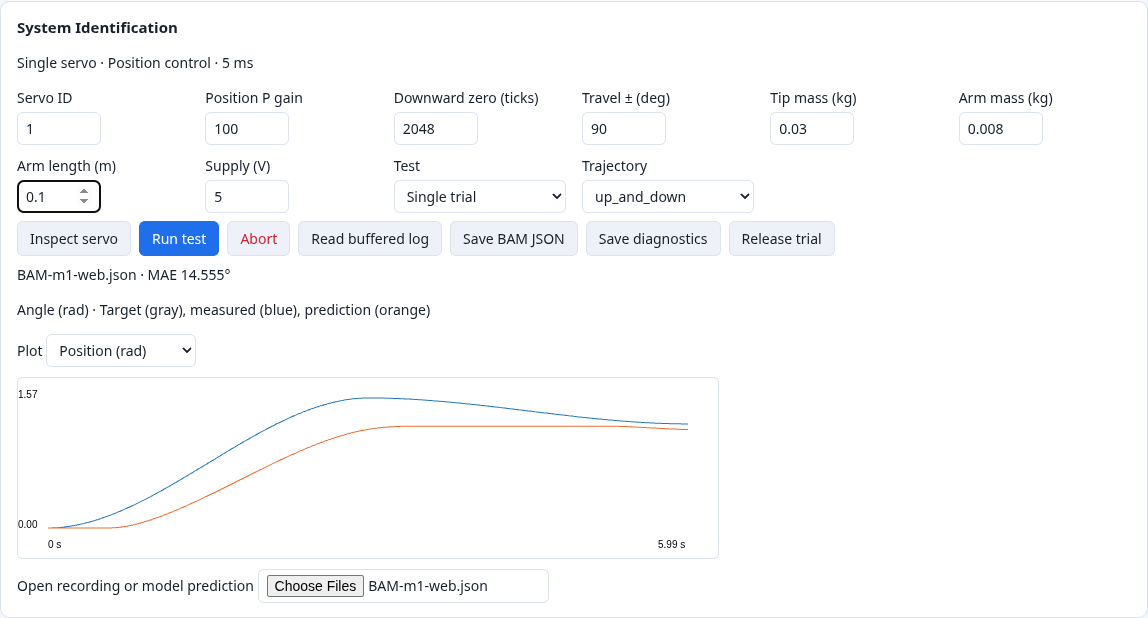
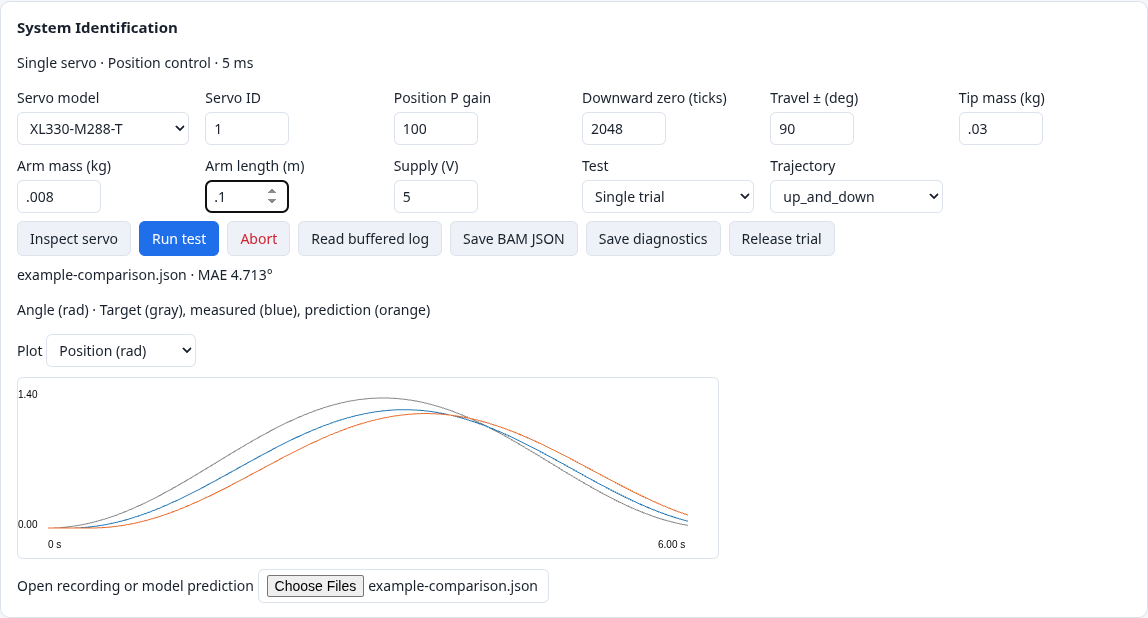
Select and verify the servo model in the identification panel

diff --git a/ServosAreGo.html b/ServosAreGo.html
@@ -212,6 +212,7 @@ details summary { cursor: pointer; color: var(--muted); font-size: 12px; }
     </div>
   </section>
 <section class="wide" id="identification"><h2>System Identification</h2><p>Single servo · Position control · 5 ms</p><div class="bench-fields">
+<label>Servo model <select id="benchModel"><option value="xl330">XL330-M288-T</option></select></label>
 <label>Servo ID <input required type="number" id="benchId" value="1" min="0" max="252" step="1" style="width:6em"></label>
 <label>Position P gain <input required type="number" id="benchGain" value="100" min="1" max="400" step="1" style="width:6em"></label>
 <label>Downward zero (ticks) <input required type="number" id="benchZero" value="2048" min="0" max="4095" step="1" style="width:6em"></label>
@@ -1048,6 +1049,14 @@ function plotBench(log) {
   ctx.fillText((min+span).toFixed(2),0,20); ctx.fillText(min.toFixed(2),0,150);
   ctx.fillText("0 s",30,170); ctx.fillText(entries.at(-1).timestamp.toFixed(2)+" s",640,170);
 }
+async function inspectBenchModel(id) {
+  const selected = $("benchModel").value;
+  const info = await benchCommand("inspect " + id);
+  if (info.model !== selected) {
+    throw Error("Servo ID " + id + ": selected " + selected + ", detected " + info.model);
+  }
+  return info;
+}
 let benchContext;
 async function recordBench(directory) {
   try {
@@ -1062,7 +1071,7 @@ async function recordBench(directory) {
     if (points.some(([q]) => Math.abs(q*radiansPerTick)>limit || zero+q<0 || zero+q>4095))
       throw Error("Trajectory exceeds bench travel");
     const meta={mass:number("benchMass"),"arm-mass":number("benchArm"),length:number("benchLength"),vin:number("benchVin"),kp,trajectory:name};
-    const capabilities=await benchCommand("inspect "+id);
+    const capabilities=await inspectBenchModel(id);
     const {model}=capabilities;
     if (model!=="xl330") throw Error("No BAM log converter registered for "+model);
     if (!capabilities.torqueSwitch && points.some(([,on])=>!on)) throw Error("Torque switching unavailable");
@@ -1115,7 +1124,7 @@ $("benchRecover").onclick=async()=>{
 };
 $("benchInspect").onclick=async()=>{
   try {
-    const info=await benchCommand("inspect "+$("benchId").valueAsNumber);
+    const info=await inspectBenchModel($("benchId").valueAsNumber);
     for (const option of $("benchTrajectory").options) {
       option.disabled=!info.torqueSwitch && benchTrajectories[option.value].some(([,on])=>!on);
     }
@@ -1127,7 +1136,7 @@ $("benchInspect").onclick=async()=>{
 $("benchStart").onclick=async()=>{
   if (benchBusy || benchRun) return;
   benchBusy=true; benchCancelled=false;
-  const controls=["benchTest","benchTrajectory","benchGain","benchId","benchZero","benchLimit","benchMass","benchArm","benchLength","benchVin"];
+  const controls=["benchModel","benchTest","benchTrajectory","benchGain","benchId","benchZero","benchLimit","benchMass","benchArm","benchLength","benchVin"];
   const originalName=$("benchTrajectory").value, originalGain=$("benchGain").value;
   controls.forEach(id=>$(id).disabled=true);
   try {

diff --git a/web/src/sysid.js b/web/src/sysid.js
@@ -54,6 +54,14 @@ function plotBench(log) {
   ctx.fillText((min+span).toFixed(2),0,20); ctx.fillText(min.toFixed(2),0,150);
   ctx.fillText("0 s",30,170); ctx.fillText(entries.at(-1).timestamp.toFixed(2)+" s",640,170);
 }
+async function inspectBenchModel(id) {
+  const selected = $("benchModel").value;
+  const info = await benchCommand("inspect " + id);
+  if (info.model !== selected) {
+    throw Error("Servo ID " + id + ": selected " + selected + ", detected " + info.model);
+  }
+  return info;
+}
 let benchContext;
 async function recordBench(directory) {
   try {
@@ -68,7 +76,7 @@ async function recordBench(directory) {
     if (points.some(([q]) => Math.abs(q*radiansPerTick)>limit || zero+q<0 || zero+q>4095))
       throw Error("Trajectory exceeds bench travel");
     const meta={mass:number("benchMass"),"arm-mass":number("benchArm"),length:number("benchLength"),vin:number("benchVin"),kp,trajectory:name};
-    const capabilities=await benchCommand("inspect "+id);
+    const capabilities=await inspectBenchModel(id);
     const {model}=capabilities;
     if (model!=="xl330") throw Error("No BAM log converter registered for "+model);
     if (!capabilities.torqueSwitch && points.some(([,on])=>!on)) throw Error("Torque switching unavailable");
@@ -121,7 +129,7 @@ $("benchRecover").onclick=async()=>{
 };
 $("benchInspect").onclick=async()=>{
   try {
-    const info=await benchCommand("inspect "+$("benchId").valueAsNumber);
+    const info=await inspectBenchModel($("benchId").valueAsNumber);
     for (const option of $("benchTrajectory").options) {
       option.disabled=!info.torqueSwitch && benchTrajectories[option.value].some(([,on])=>!on);
     }
@@ -133,7 +141,7 @@ $("benchInspect").onclick=async()=>{
 $("benchStart").onclick=async()=>{
   if (benchBusy || benchRun) return;
   benchBusy=true; benchCancelled=false;
-  const controls=["benchTest","benchTrajectory","benchGain","benchId","benchZero","benchLimit","benchMass","benchArm","benchLength","benchVin"];
+  const controls=["benchModel","benchTest","benchTrajectory","benchGain","benchId","benchZero","benchLimit","benchMass","benchArm","benchLength","benchVin"];
   const originalName=$("benchTrajectory").value, originalGain=$("benchGain").value;
   controls.forEach(id=>$(id).disabled=true);
   try {

diff --git a/web/src/index.html b/web/src/index.html
@@ -212,6 +212,7 @@ details summary { cursor: pointer; color: var(--muted); font-size: 12px; }
     </div>
   </section>
 <section class="wide" id="identification"><h2>System Identification</h2><p>Single servo · Position control · 5 ms</p><div class="bench-fields">
+<label>Servo model <select id="benchModel"><option value="xl330">XL330-M288-T</option></select></label>
 <label>Servo ID <input required type="number" id="benchId" value="1" min="0" max="252" step="1" style="width:6em"></label>
 <label>Position P gain <input required type="number" id="benchGain" value="100" min="1" max="400" step="1" style="width:6em"></label>
 <label>Downward zero (ticks) <input required type="number" id="benchZero" value="2048" min="0" max="4095" step="1" style="width:6em"></label>
